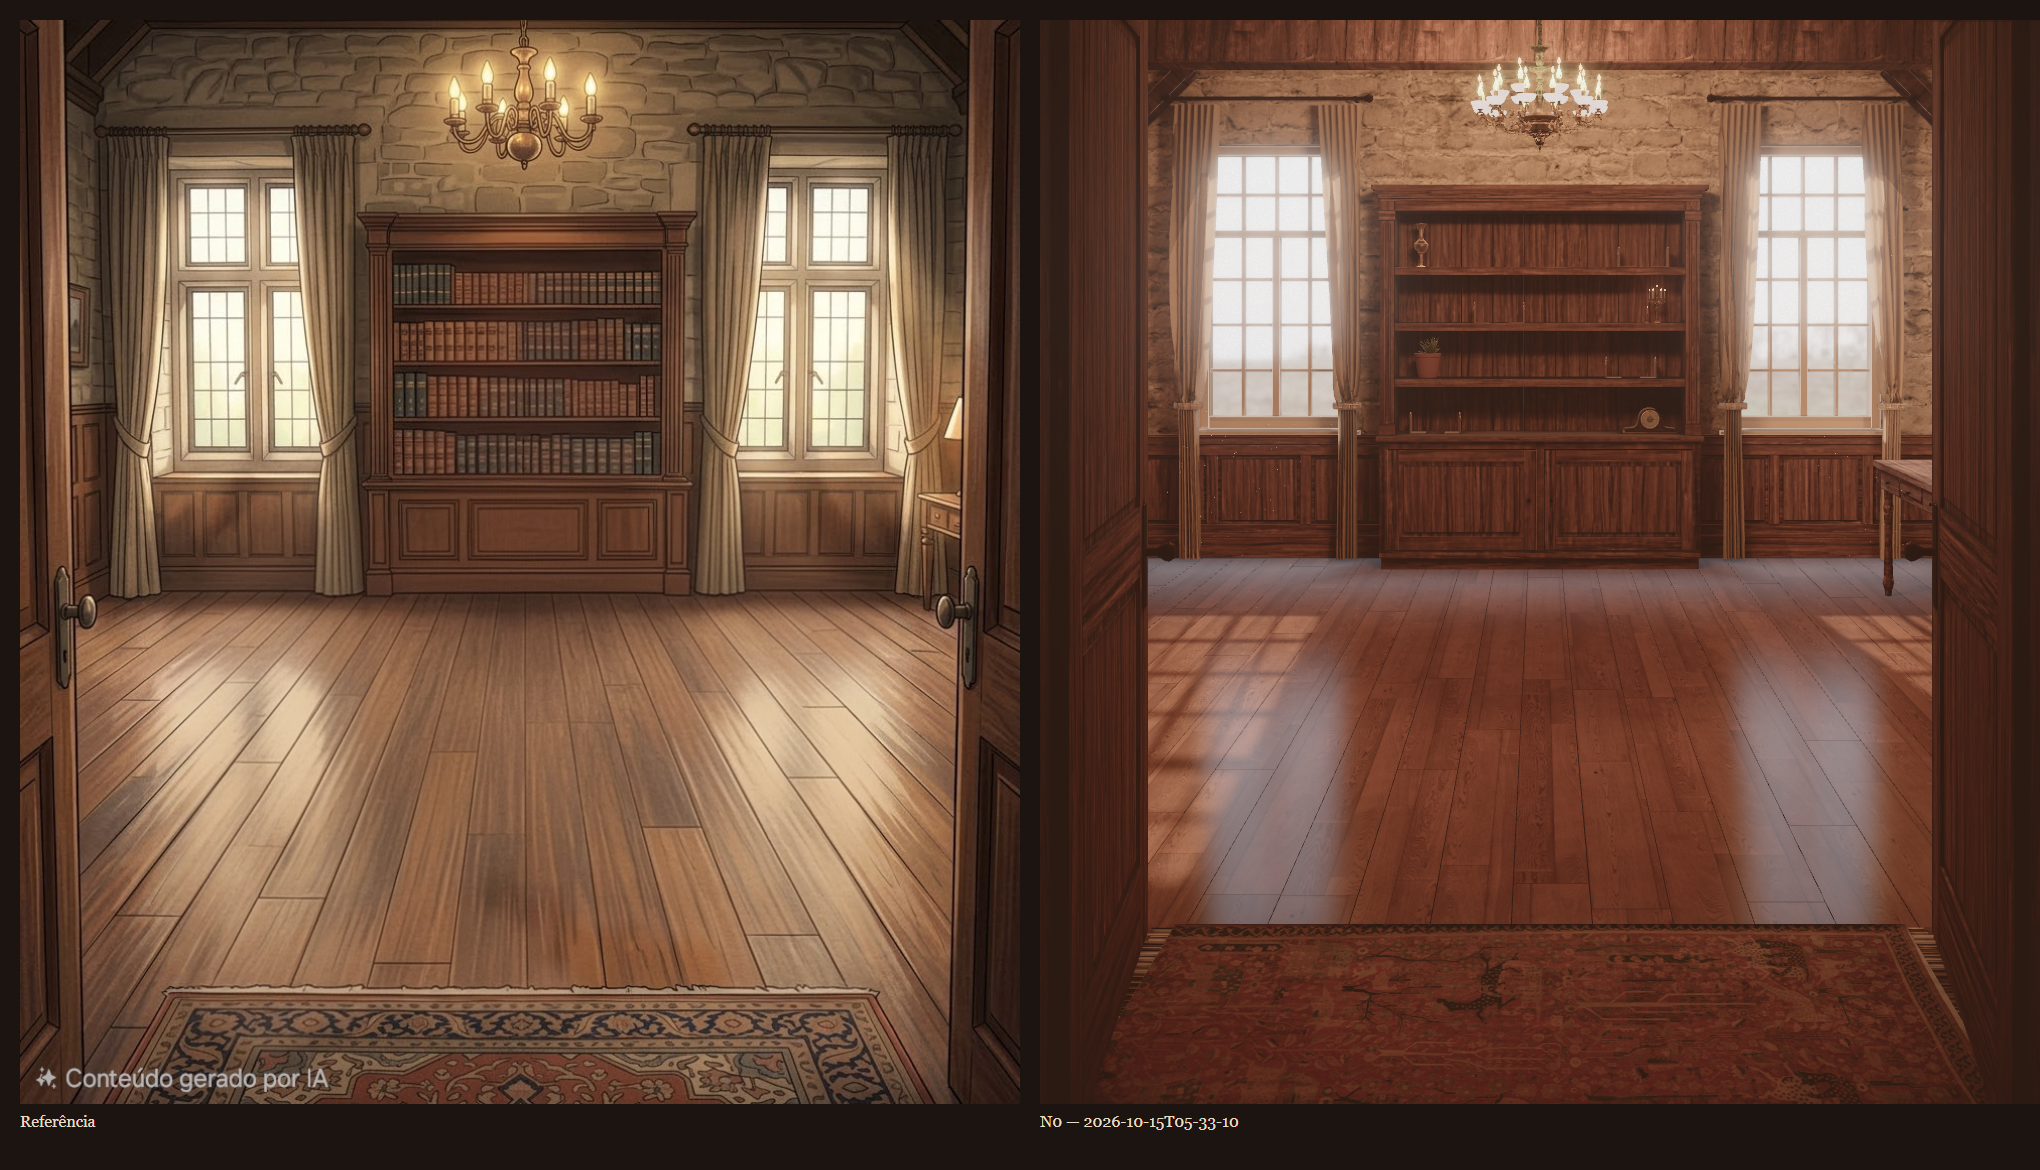
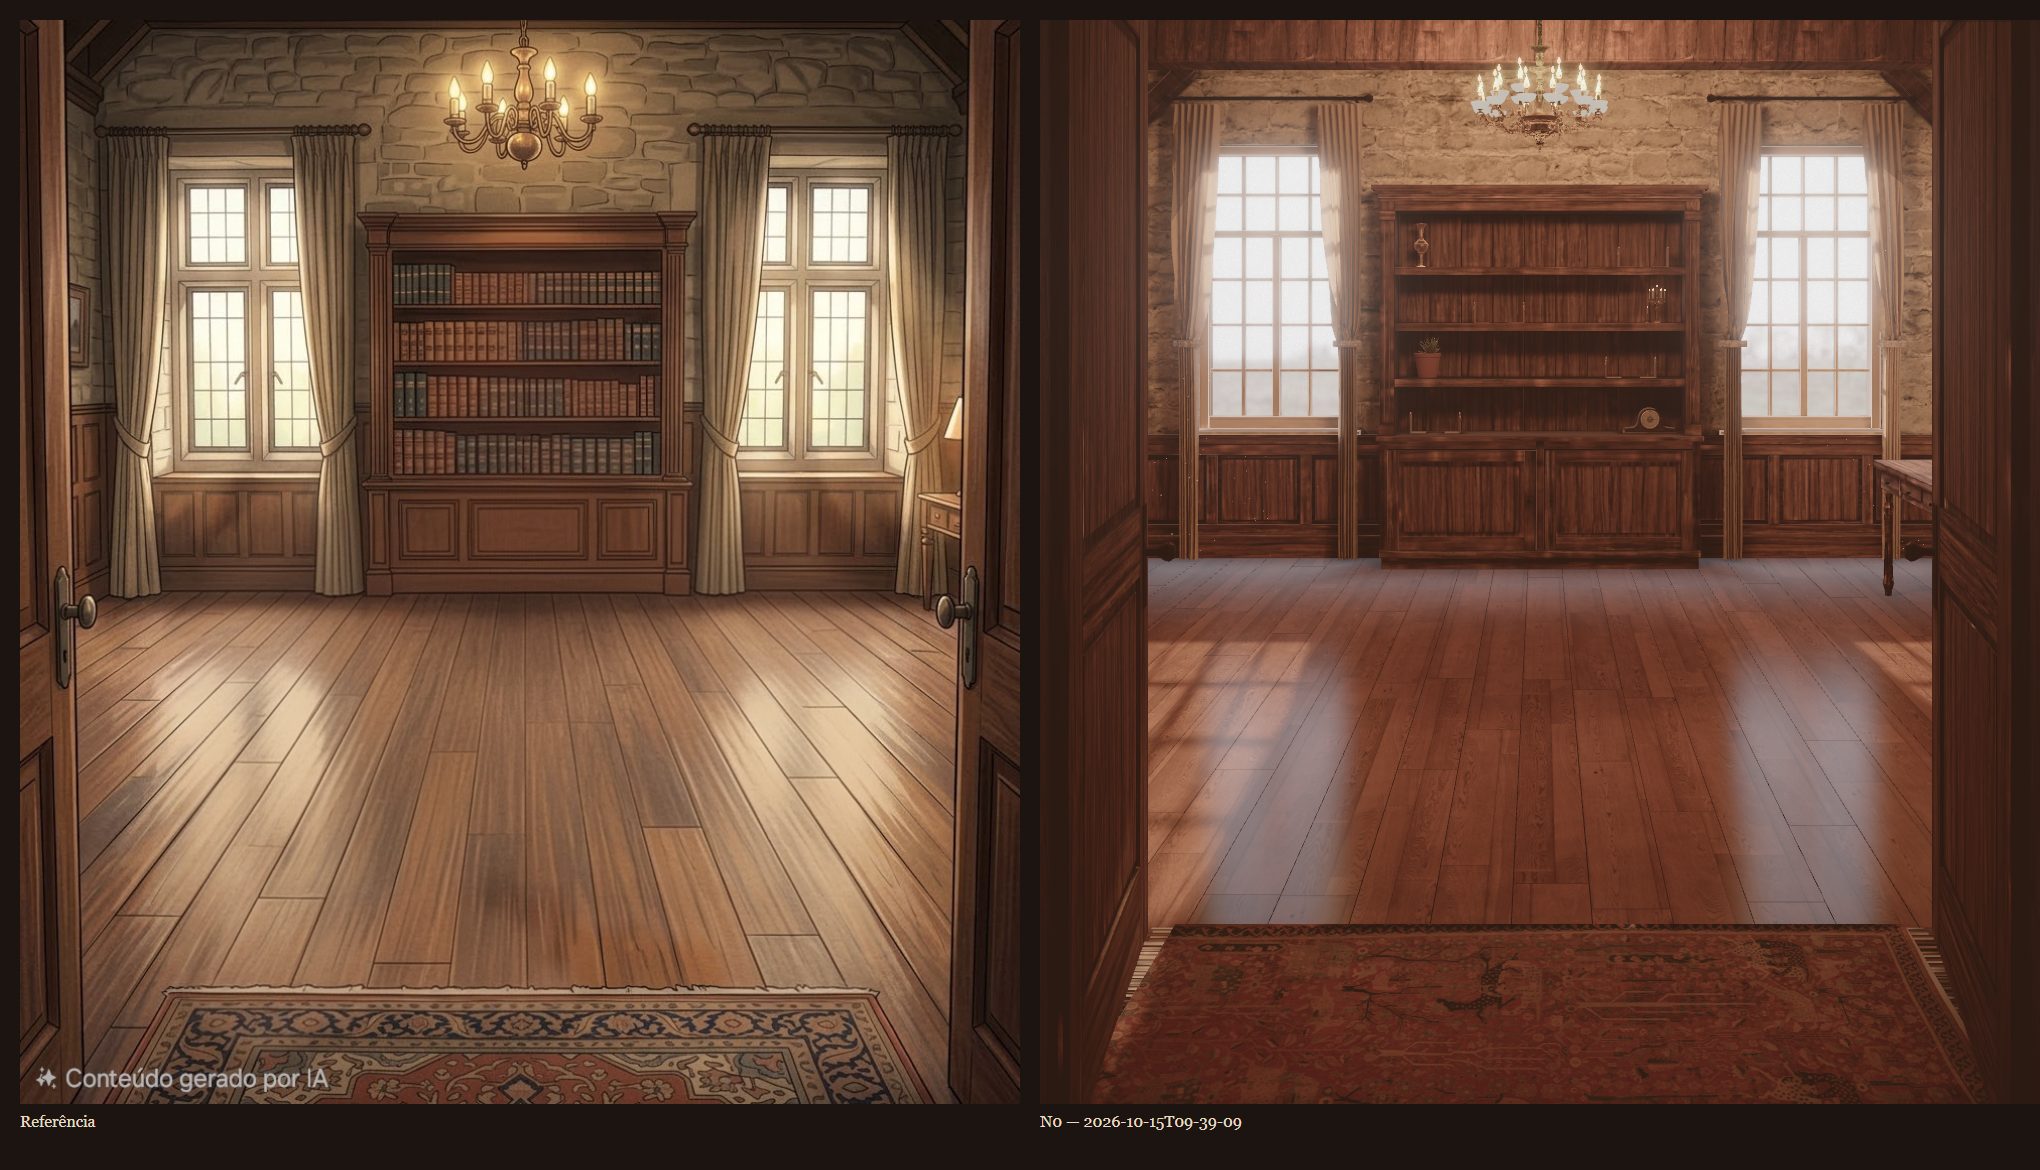
look dev S8: preenchimento frio, sol 22°, madeira e pedra na paleta, abraçadeiras

diff --git a/scripts/prepare-textures.ts b/scripts/prepare-textures.ts
@@ -166,13 +166,13 @@ async function main() {
   mkdirSync(OUT, { recursive: true })
 
   // Floor: wide varnished planks, warmed toward floor base #7A4E32.
-  await pbr('floor_wood', 'floor', { mean: '#785236', saturation: 0.6, contrast: 1.15 }, { roughness: 0.32, spread: 0.7 })
+  await pbr('floor_wood', 'floor', { mean: '#7A5438', saturation: 0.5, contrast: 1.15 }, { roughness: 0.32, spread: 0.7 })
   // Stone: light limestone/sandstone #A89A84–#C8BBA2, slightly warm.
-  await pbr('wall_stone', 'stone', { mean: '#AA9C86', saturation: 0.55 }, { disp: true, roughness: 0.85 })
+  await pbr('wall_stone', 'stone', { mean: '#A8A08E', saturation: 0.4 }, { disp: true, roughness: 0.85 })
   // Bookcase: dark mahogany, 25% less saturated than the source.
-  await pbr('bookcase_wood', 'bookcase', { mean: '#5F432F', saturation: 0.4 }, { roughness: 0.42 })
+  await pbr('bookcase_wood', 'bookcase', { mean: '#5E4532', saturation: 0.32 }, { roughness: 0.42 })
   // Wainscot + door: same wood, one tone lighter (direção de arte: mesma família).
-  await pbr('bookcase_wood', 'wainscot', { mean: '#6B4A34', saturation: 0.4 }, { roughness: 0.45 })
+  await pbr('bookcase_wood', 'wainscot', { mean: '#6A4C37', saturation: 0.32 }, { roughness: 0.45 })
   // Desk: same family, between the two.
   await pbr('bookcase_wood', 'desk', { mean: '#634632', saturation: 0.42 }, { roughness: 0.4 })
   // Beams: rough grey wood tinted to dark brown.

diff --git a/src/scene/RoomExtras.tsx b/src/scene/RoomExtras.tsx
@@ -46,7 +46,7 @@ export function WindowGlass({ meshes, envMap }: { meshes: Mesh[]; envMap: Textur
 /** The chandelier's candle bulbs (Chandelier_03 glass): lit, warm emitters instead of sky-reflecting glass. */
 export function CandleBulbs({ root }: { root: Object3D }) {
   useLayoutEffect(() => {
-    const mat = new MeshBasicMaterial({ color: new Color(room.lighting.chandelier.colorHex).lerp(new Color('#ffffff'), 0.35).multiplyScalar(2.4) })
+    const mat = new MeshBasicMaterial({ color: new Color('#E8C9A0').multiplyScalar(1.1) })
     root.traverse((o) => {
       const m = o as Mesh
       if (m.isMesh && /^Chandelier_03_glass/i.test(matName(m))) m.material = mat

diff --git a/src/scene/LightBeams.tsx b/src/scene/LightBeams.tsx
@@ -173,7 +173,7 @@ export function LightBeams() {
       new ShaderMaterial({
         vertexShader: beamVertex,
         fragmentShader: beamFragment,
-        uniforms: { uColor: { value: sunColor }, uIntensity: { value: 2.4 }, uTime: { value: 0 } },
+        uniforms: { uColor: { value: sunColor }, uIntensity: { value: 3.2 }, uTime: { value: 0 } },
         transparent: true,
         depthWrite: false,
         blending: AdditiveBlending,

diff --git a/src/scene/ShelfProps.tsx b/src/scene/ShelfProps.tsx
@@ -19,7 +19,7 @@ export function ShelfProps() {
           mat.emissiveIntensity = 6
           mat.toneMapped = false
         }
-        mat.envMapIntensity = 0.6
+        mat.envMapIntensity = /brass/i.test(mat.name) ? 0.35 : 0.6
         // aged brass is satin, not mirror: the env holds the hot windows
         if (/brass/i.test(mat.name)) mat.roughness = 1.1
       }

diff --git a/src/scene/DynamicLights.tsx b/src/scene/DynamicLights.tsx
@@ -68,7 +68,7 @@ export function DynamicLights() {
         ref={sun}
         position={sunPos}
         color={new Color(room.lighting.sun.colorHex)}
-        intensity={11}
+        intensity={14}
         castShadow={quality === 'high'}
         shadow-mapSize={[1024, 1024]}
         shadow-bias={-0.0004}

diff --git a/blender/build_room.py b/blender/build_room.py
@@ -757,7 +757,7 @@ if flames:
 
 L = cfg["lighting"]
 sun_data = bpy.data.lights.new("sun", "SUN")
-sun_data.energy = 11.0
+sun_data.energy = 14.0
 sun_data.angle = math.radians(0.8)
 sun_data.color = kelvin_to_rgb(L["sun"]["kelvin"])
 sun = bpy.data.objects.new("sun", sun_data)
@@ -841,10 +841,10 @@ cool = nt.nodes.new("ShaderNodeMix")
 cool.data_type = "RGBA"
 cool.blend_type = "MULTIPLY"
 cool.inputs["Factor"].default_value = 1.0
-cool.inputs[7].default_value = (0.82, 0.93, 1.15, 1.0)
+cool.inputs[7].default_value = (0.74, 0.9, 1.3, 1.0)
 nt.links.new(mix.outputs[2], cool.inputs[6])
 bg = nt.nodes.new("ShaderNodeBackground")
-bg.inputs["Strength"].default_value = 1.7
+bg.inputs["Strength"].default_value = 2.0
 nt.links.new(cool.outputs[2], bg.inputs["Color"])
 wout = nt.nodes.new("ShaderNodeOutputWorld")
 nt.links.new(bg.outputs["Background"], wout.inputs["Surface"])

diff --git a/docs/decisoes.md b/docs/decisoes.md
@@ -172,3 +172,9 @@ Formato de cada entrada:
 - Escolha: World do Cycles multiplicado por (0,82; 0,93; 1,15) e força 1,0 → 1,7; sol mantido em 3200 K. Médias dos albedos alinhadas à paleta (piso #7A4E32, estante #5C3D2A, lambri #674430, pedra #AA9C86). `toneMappingExposure` 1,23 no app.
 - Como reverter: `blender/build_room.py` (bloco World), `scripts/prepare-textures.ts`, `src/scene/SceneRoot.tsx`.
 - Precisa do usuário? não.
+
+## 2026-10-15 — Look dev S8: recomendações 1 e 2 do relatório aplicadas (sem resposta do usuário)
+- Contexto: o usuário pediu para continuar; as decisões 1–2 do relatório tinham recomendação. Aplicadas e reversíveis.
+- Escolha: céu do bake mais frio (×0,74/0,90/1,30, força 2,0) como preenchimento; `lighting.sun.elevationDeg` 28 → 22 (manchas mais longas, sem sair da sala — conferido no shot); pedra #A8A08E com saturação 0,4; madeiras com saturação 0,32; `curtains.tiebackY` 1,0 → 1,4.
+- Como reverter: `config/room.json`, `blender/build_room.py` (bloco World), `scripts/prepare-textures.ts`.
+- Precisa do usuário? sim, confirmar pelo `compare_N0.png`.
